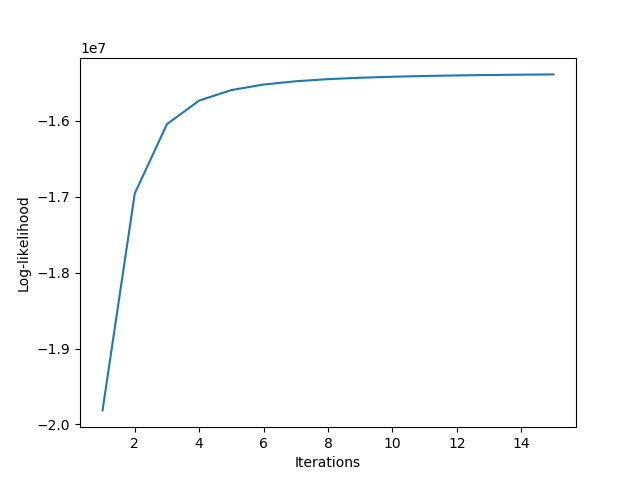
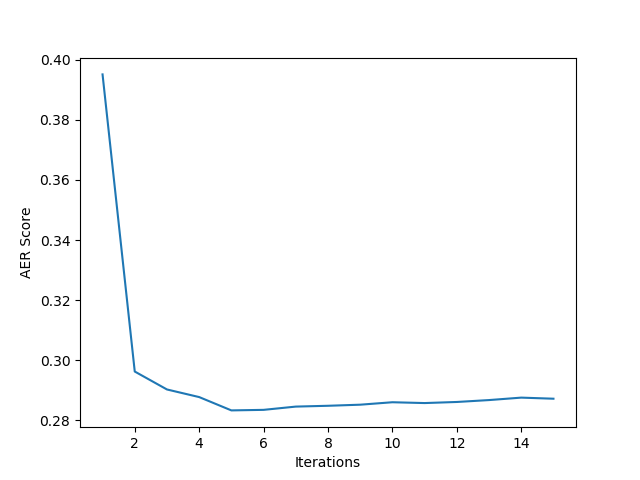
Normalise log likelihood with training corpus size

diff --git a/main.py b/main.py
@@ -70,7 +70,8 @@ def test_model(ibm_model, training_corpus, validation_corpus, test_corpus, valid
     #aer_scores = [initial_aer] + aer_scores
 
     # Print log-likelihood after training
-    final_log_likelihood = ibm_model.total_log_likelihood(training_corpus)
+    # final_log_likelihood = ibm_model.total_log_likelihood(training_corpus)
+    final_log_likelihood = ibm_model.total_log_likelihood(training_corpus)/len(training_corpus)
     print('\nFinal log-likelihood:', final_log_likelihood)
     # TODO: have train() return the log likelihoods from after the iteration as well?
     log_likelihoods = [*log_likelihoods[1:], final_log_likelihood]
@@ -81,13 +82,15 @@ def test_model(ibm_model, training_corpus, validation_corpus, test_corpus, valid
         'AER Score': aer_scores,
     }
     # Plot log-likelihood and aer curves
-    for label, ys in stats.items():
+    for i, (label, ys) in enumerate(stats.items()):
         # TODO: seaborn?
+        print('test')
+        name = 'log_likelihoods.png' if i==0 else 'aer_scores.png'
         fig = plt.figure()
         plt.plot(xs, ys)
         plt.xlabel('Iterations')
         plt.ylabel(label)
-        plt.savefig('IBM1_log_likelihoods.png')
+        plt.savefig(name)
         plt.close(fig)
 
     # TODO: df.to_csv?

diff --git a/ibm1.py b/ibm1.py
@@ -76,7 +76,8 @@ class IBM1():
             print('Log-likelihood before:', total_log_likelihood)
             aer = self.calculate_aer(validation_corpus, validation_gold)
             print('Validation AER after:', aer)
-            total_log_likelihoods.append(total_log_likelihood)
+            # total_log_likelihoods.append(total_log_likelihood)
+            total_log_likelihoods.append(total_log_likelihood/len(training_corpus))
             aer_scores.append(aer)
         return (total_log_likelihoods, aer_scores)
 
